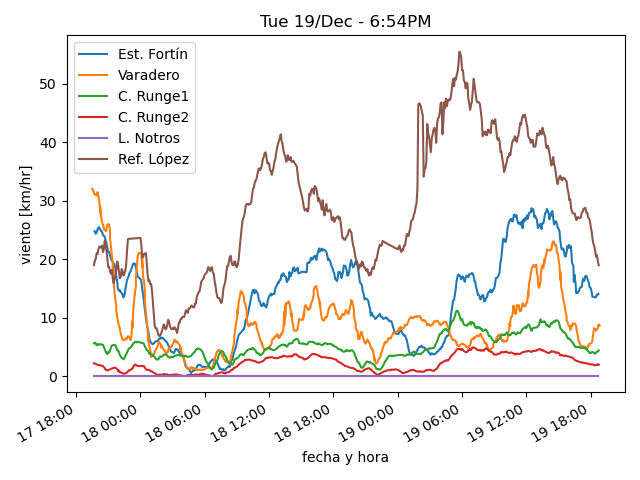
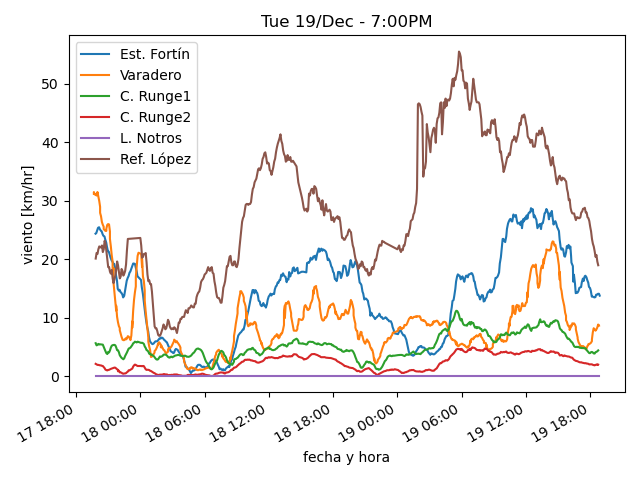
actualiza datos

diff --git a/estaciones/estacion1.html b/estaciones/estacion1.html
@@ -18,17 +18,17 @@
     </tr>
     <tr>
      <td class="stats_data">
-      6:43PM
+      6:53PM
      </td>
     </tr>
     <tr>
      <td class="stats_data">
-      12.6
+      12.4
      </td>
     </tr>
     <tr>
      <td class="stats_data">
-      5.0
+      4.9
      </td>
     </tr>
     <tr>
@@ -43,7 +43,7 @@
     </tr>
     <tr>
      <td class="stats_data">
-      7.9/12.1 NE
+      7.2/12.9 NNE
      </td>
     </tr>
     <tr>
@@ -58,7 +58,7 @@
     </tr>
     <tr>
      <td class="stats_data">
-      83.0
+      67.0
      </td>
     </tr>
    </tbody>

diff --git a/estaciones/estacion5.html b/estaciones/estacion5.html
@@ -18,17 +18,17 @@
     </tr>
     <tr>
      <td class="stats_data">
-      6:40PM
+      6:50PM
      </td>
     </tr>
     <tr>
      <td class="stats_data">
-      12.9
+      12.7
      </td>
     </tr>
     <tr>
      <td class="stats_data">
-      6.6
+      6.4
      </td>
     </tr>
     <tr>
@@ -38,7 +38,7 @@
     </tr>
     <tr>
      <td class="stats_data">
-      1018.66
+      1018.76
      </td>
     </tr>
     <tr>
